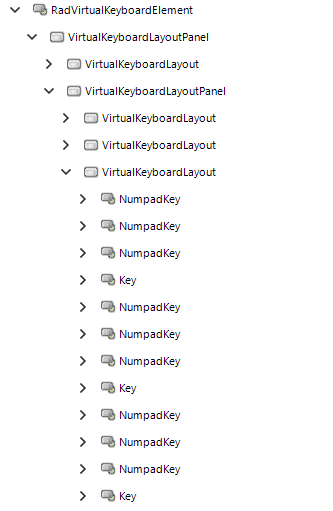
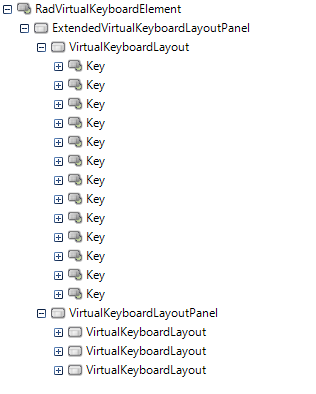
Update VirtualKeyboard Structure article

Changed region(s): [[0.0, 0.0, 0.7975, 1.0]]

diff --git a/controls/virtual-keyboard/structure.md b/controls/virtual-keyboard/structure.md
@@ -15,7 +15,7 @@ This article shows the inner structure and organization of the elements which bu
 **RadVirtualKeyboard** has the following elements in its structure:
 
 * **RadVirtualKeyboardElement** – the main element of the keyboard control. It hosts a collection of keyboard layouts.  
-* **VirtualKeyboardLayoutPanel** - hosts **VirtualKeyboardLayouts** and other **VirtualKeyboardLayoutPanels**. It can have horizontal or vertical orientation and the spacing between layouts can be changed. 
+* **ExtendedVirtualKeyboardLayoutPanel** - hosts **VirtualKeyboardLayouts** and other **VirtualKeyboardLayoutPanels**. It can have horizontal or vertical orientation and the spacing between layouts can be changed. Note that according to the **LayoutType** the **MainLayoutPanel** might be **ExtendedVirtualKeyboardLayoutPanel**, **SimplifiedVirtualKeyboardLayoutPanel** or **NumpadVirtualKeyboardLayoutPanel**.
 * **VirtualKeyboardLayout** - a visual item that hosts the keys of the keyboard, the infrastructure to create new keys, organizes them into logical rows and contains the logical layout implementation. It provides several predefined layouts. 
 	* **Key** - represents a single button on a physical keyboard. Letters, numbers, functions, and symbols are all represented on keys.
 	* **NumpadKey** - represents a single button from the NumPad group on a physical keyboard.
